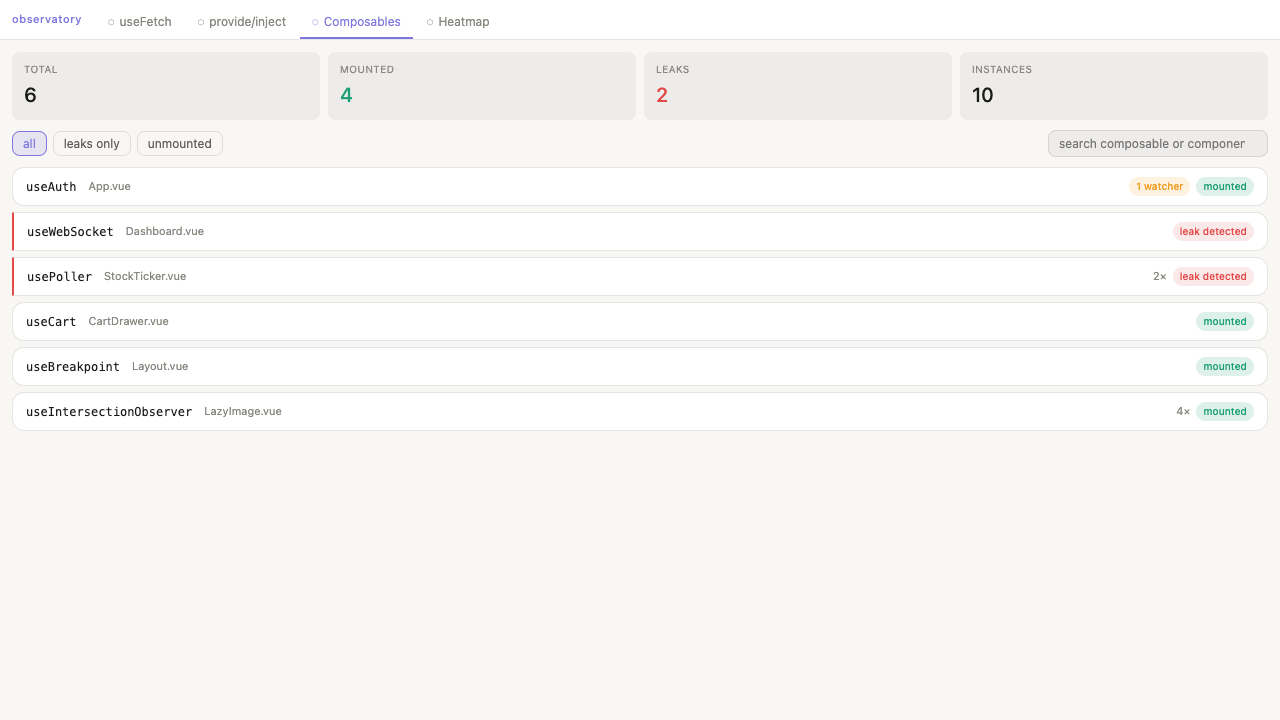
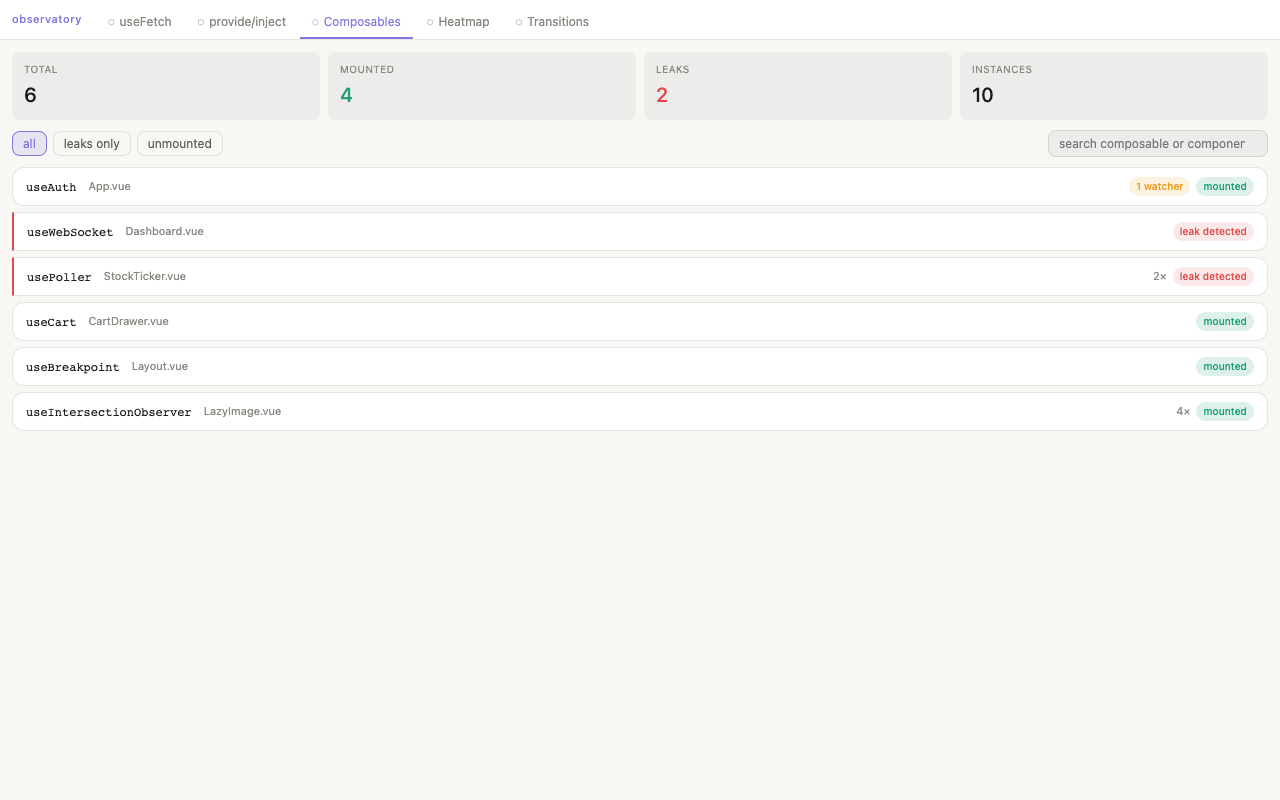
feat: update README with new feature

diff --git a/README.md b/README.md
@@ -1,11 +1,12 @@
 # nuxt-devtools-observatory
 
-Vue/Nuxt DevTools extension providing four missing observability features:
+Vue/Nuxt DevTools extension providing five missing observability features:
 
 - **useFetch Dashboard** — central view of all async data calls, cache keys, waterfall timeline
 - **provide/inject Graph** — interactive tree showing the full injection topology with missing-provider detection
 - **Composable Tracker** — live view of active composables, their reactive state, and leak detection
 - **Render Heatmap** — component tree colour-coded by render frequency and duration
+- **Transition Tracker** — live timeline of every `<Transition>` lifecycle event with phase, duration, and cancellation state
 
 ## Installation
 
@@ -23,6 +24,7 @@ export default defineNuxtConfig({
     provideInjectGraph: true,
     composableTracker: true,
     renderHeatmap: true,
+    transitionTracker: true,
     heatmapThreshold: 5,   // highlight components with 5+ renders
   },
 
@@ -30,16 +32,16 @@ export default defineNuxtConfig({
 })
 ```
 
-Open the Nuxt DevTools panel — four new tabs will appear.
+Open the Nuxt DevTools panel — five new tabs will appear.
 
 The DevTools client SPA runs on a dedicated Vite development server (port **4949**).
 
 ## How it works
 
 All instrumentation is **dev-only**. The module registers Vite transforms that wrap
-`useFetch`, `provide/inject`, and `useX()` composable calls at the AST level before
-compilation. In production (`import.meta.dev === false`) the transforms are skipped
-entirely — zero runtime overhead.
+`useFetch`, `provide/inject`, `useX()` composable calls, and `<Transition>` at the
+AST/module level before compilation. In production (`import.meta.dev === false`) the
+transforms are skipped entirely — zero runtime overhead.
 
 ### useFetch Dashboard
 
@@ -85,6 +87,37 @@ A `PerformanceObserver` reads Vue's native `vue-component-render-start/end` mark
 accurate duration measurement. Component bounding boxes are captured via `$el.getBoundingClientRect()`
 for the DOM overlay mode.
 
+### Transition Tracker
+
+![Transition Tracker](docs/screenshots/transition-tracker.png)
+
+A Vite plugin intercepts `import ... from 'vue'` in user code and serves a virtual
+proxy module that overrides the `Transition` export with an instrumented wrapper.
+This is necessary because the Vue 3 template compiler generates direct named imports
+(`import { Transition as _Transition } from "vue"`) that bypass `app.component()`
+entirely.
+
+The wrapper records every lifecycle phase without interfering with Vue's internal
+CSS/JS timing detection:
+
+| Hook | Phase recorded |
+|---|---|
+| `onBeforeEnter` | `entering` |
+| `onAfterEnter` | `entered` |
+| `onEnterCancelled` | `enter-cancelled` |
+| `onBeforeLeave` | `leaving` |
+| `onAfterLeave` | `left` |
+| `onLeaveCancelled` | `leave-cancelled` |
+
+> `onEnter` / `onLeave` are intentionally **not** wrapped — Vue inspects their
+> `.length` property to choose CSS-mode vs JS-mode timing, and wrapping changes
+> that length.
+
+The Transitions tab shows a live timeline with name, direction, phase, duration,
+parent component, and cancellation state for every transition fired on the page.
+Data is bridged from the Nuxt app (port 3000) to the Observatory SPA (port 4949)
+via `postMessage` since the two origins are cross-origin inside the DevTools iframe.
+
 ## Opting out
 
 Add a `/* @devtools-ignore */` comment before any call to exclude it from instrumentation:
@@ -106,6 +139,9 @@ pnpm install
 # Run the playground
 pnpm dev
 
+# Run tests
+pnpm test
+
 # Build the module (client SPA + Nuxt module)
 pnpm build
 ```
@@ -118,14 +154,16 @@ src/
 ├── transforms/
 │   ├── fetch-transform.ts              ← AST wraps useFetch/useAsyncData
 │   ├── provide-inject-transform.ts     ← AST wraps provide/inject
-│   └── composable-transform.ts         ← AST wraps useX() composables
+│   ├── composable-transform.ts         ← AST wraps useX() composables
+│   └── transition-transform.ts         ← Virtual vue proxy — overrides Transition export
 ├── runtime/
-│   ├── plugin.ts                       ← Client runtime bootstrap
+│   ├── plugin.ts                       ← Client runtime bootstrap + postMessage bridge
 │   └── composables/
 │       ├── fetch-registry.ts           ← Fetch tracking store + __devFetch shim
 │       ├── provide-inject-registry.ts  ← Injection tracking + __devProvide/__devInject
 │       ├── composable-registry.ts      ← Composable tracking + __trackComposable + leak detection
-│       └── render-registry.ts          ← Render performance data via PerformanceObserver
+│       ├── render-registry.ts          ← Render performance data via PerformanceObserver
+│       └── transition-registry.ts      ← Transition lifecycle store
 └── nitro/
     └── fetch-capture.ts                ← SSR-side fetch timing
 
@@ -143,10 +181,11 @@ client/
         ├── FetchDashboard.vue          ← useFetch tab UI
         ├── ProvideInjectGraph.vue      ← provide/inject tab UI
         ├── ComposableTracker.vue       ← Composable tab UI
-        └── RenderHeatmap.vue           ← Heatmap tab UI
+        ├── RenderHeatmap.vue           ← Heatmap tab UI
+        └── TransitionTimeline.vue      ← Transition tracker tab UI
 
 playground/
-├── app.vue                             ← Demo app exercising all four features
+├── app.vue                             ← Demo app exercising all five features
 ├── nuxt.config.ts
 ├── composables/
 │   ├── useCounter.ts                   ← Clean composable (properly cleaned up)
@@ -156,7 +195,11 @@ playground/
 │   ├── MissingProviderConsumer.vue     ← Injects 'cartContext' (no provider — red node)
 │   ├── LeakyComponent.vue              ← Mounts useLeakyPoller
 │   ├── HeavyList.vue                   ← Re-renders on every shuffle (heatmap demo)
-│   └── PriceDisplay.vue                ← Leaf component with high render count
+│   ├── PriceDisplay.vue                ← Leaf component with high render count
+│   └── transitions/
+│       ├── FadeBox.vue                 ← Healthy enter/leave transition
+│       ├── BrokenTransition.vue        ← Missing CSS classes (enter fires but stays in entering)
+│       └── CancelledTransition.vue     ← Rapid toggle triggers enter-cancelled / leave-cancelled
 └── server/api/
     └── product.ts                      ← Mock API endpoint
 ```
